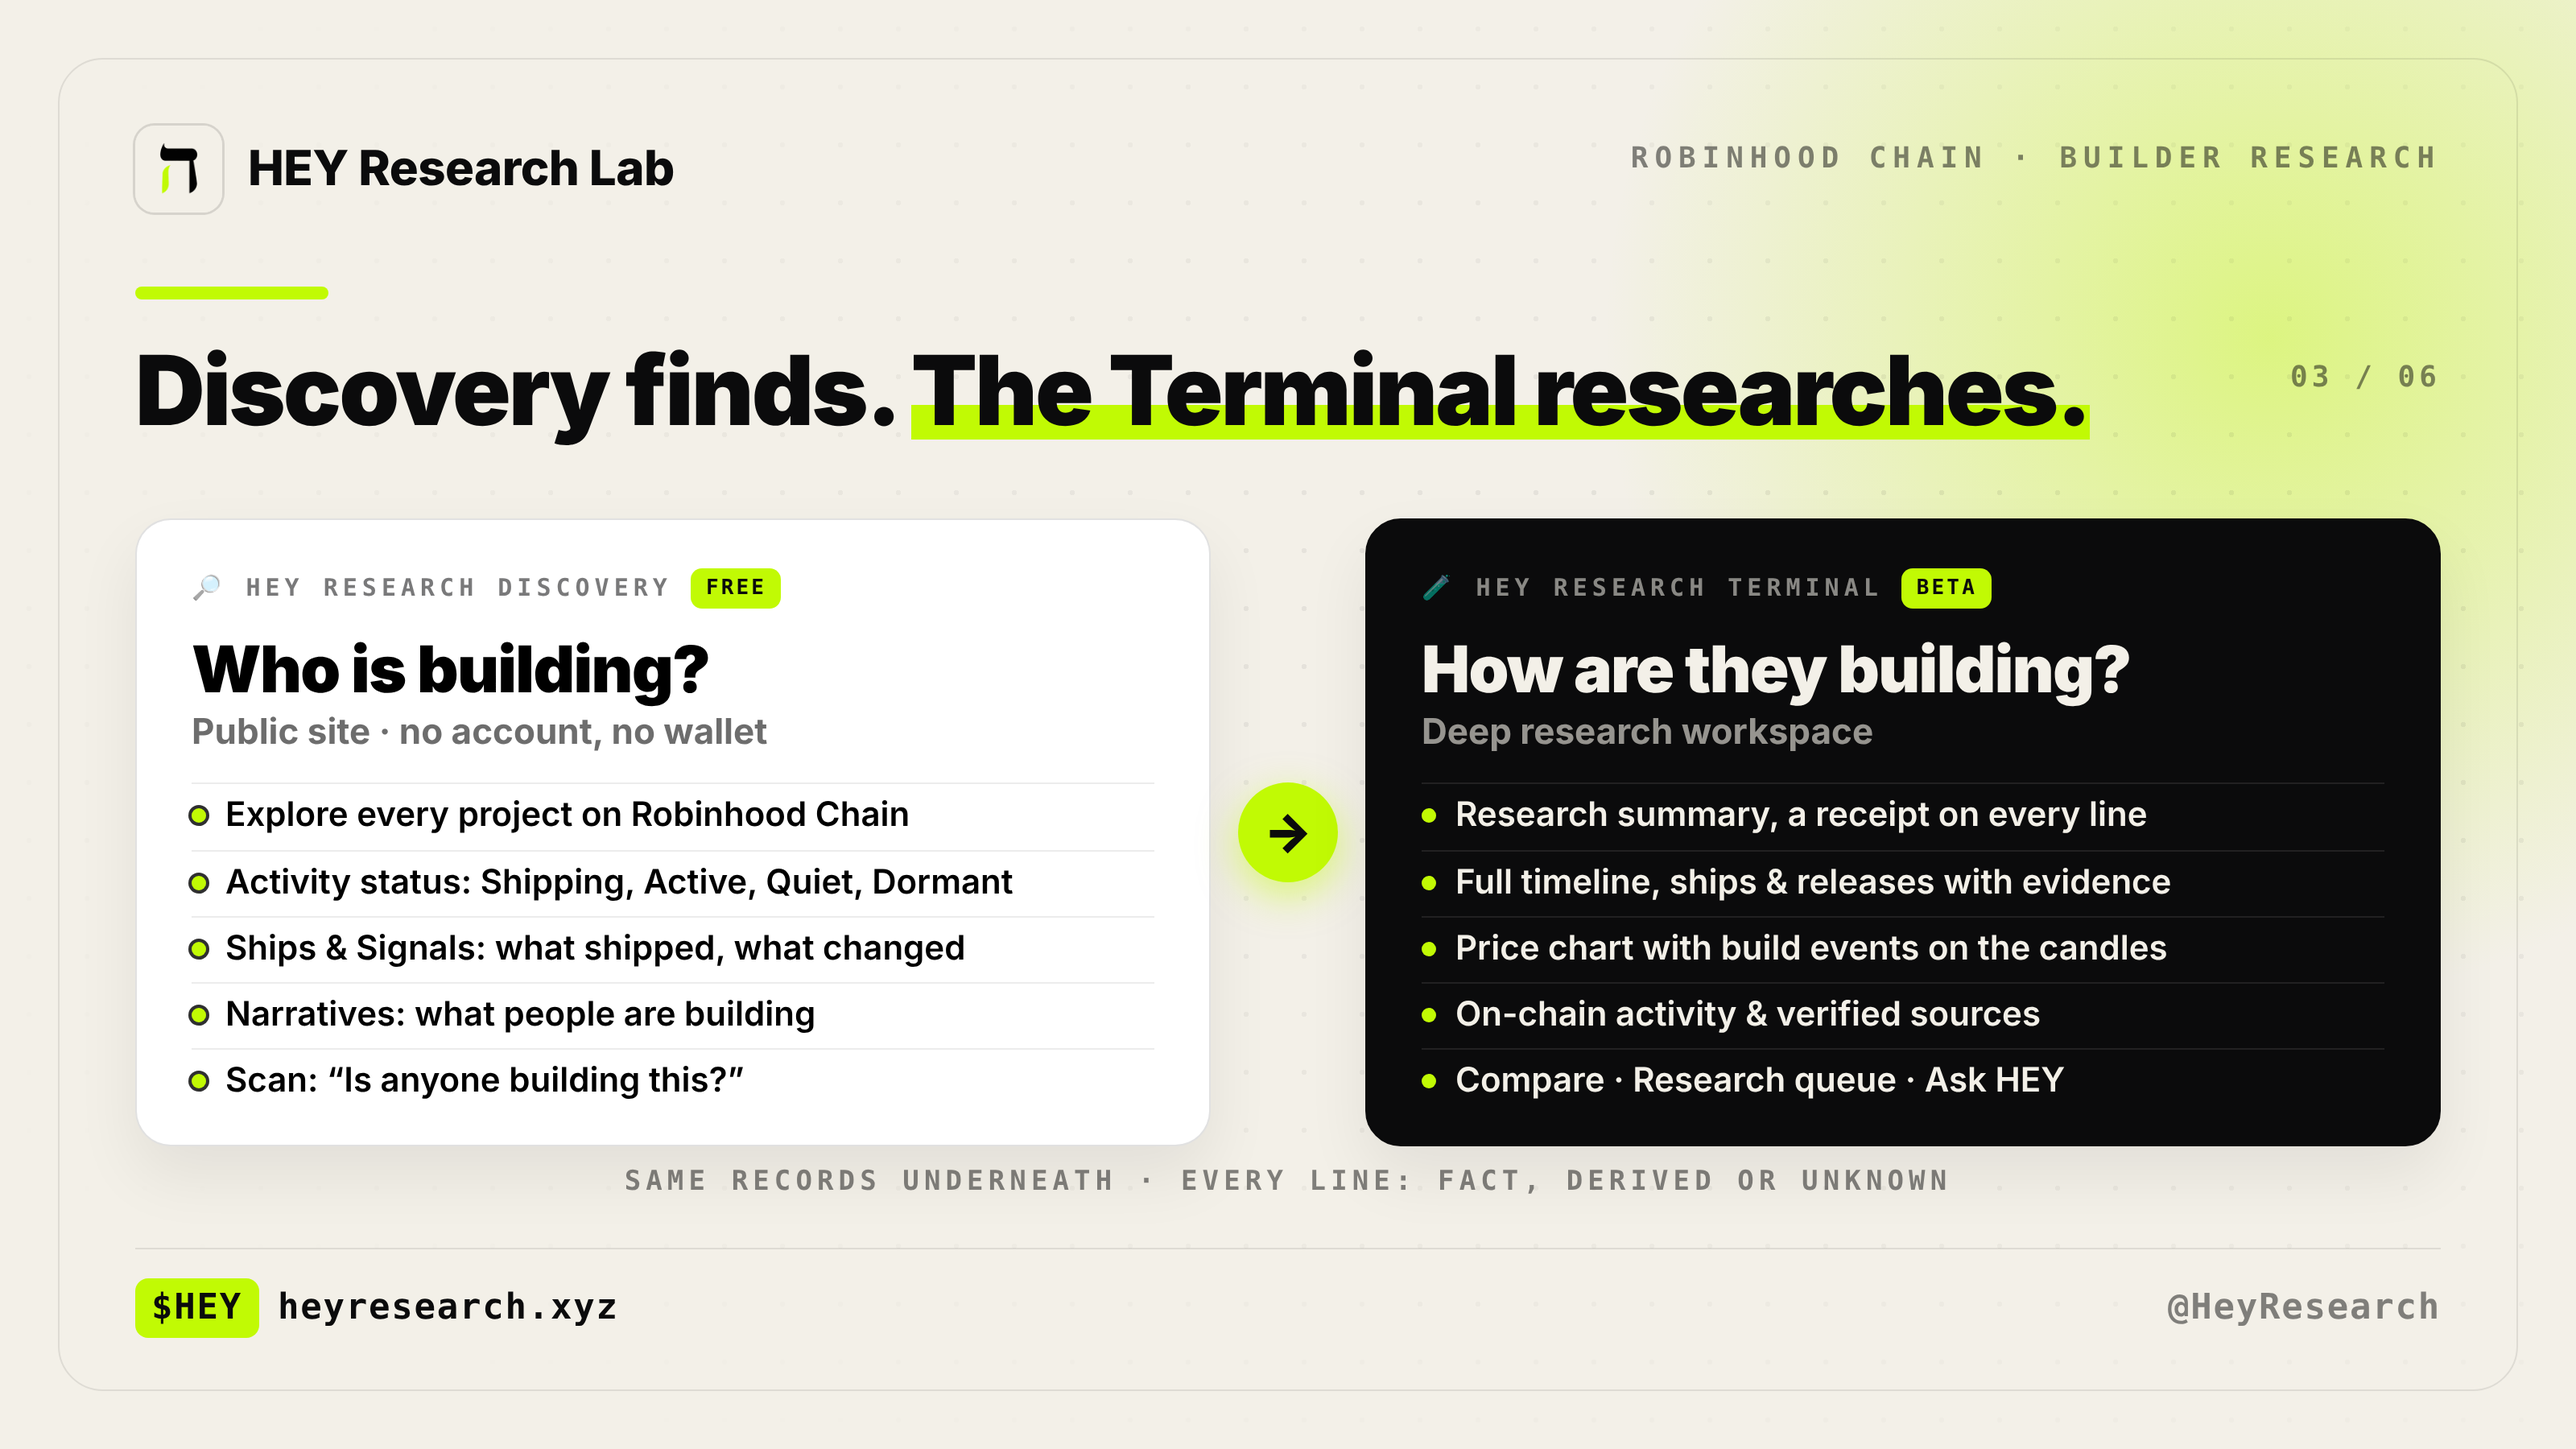
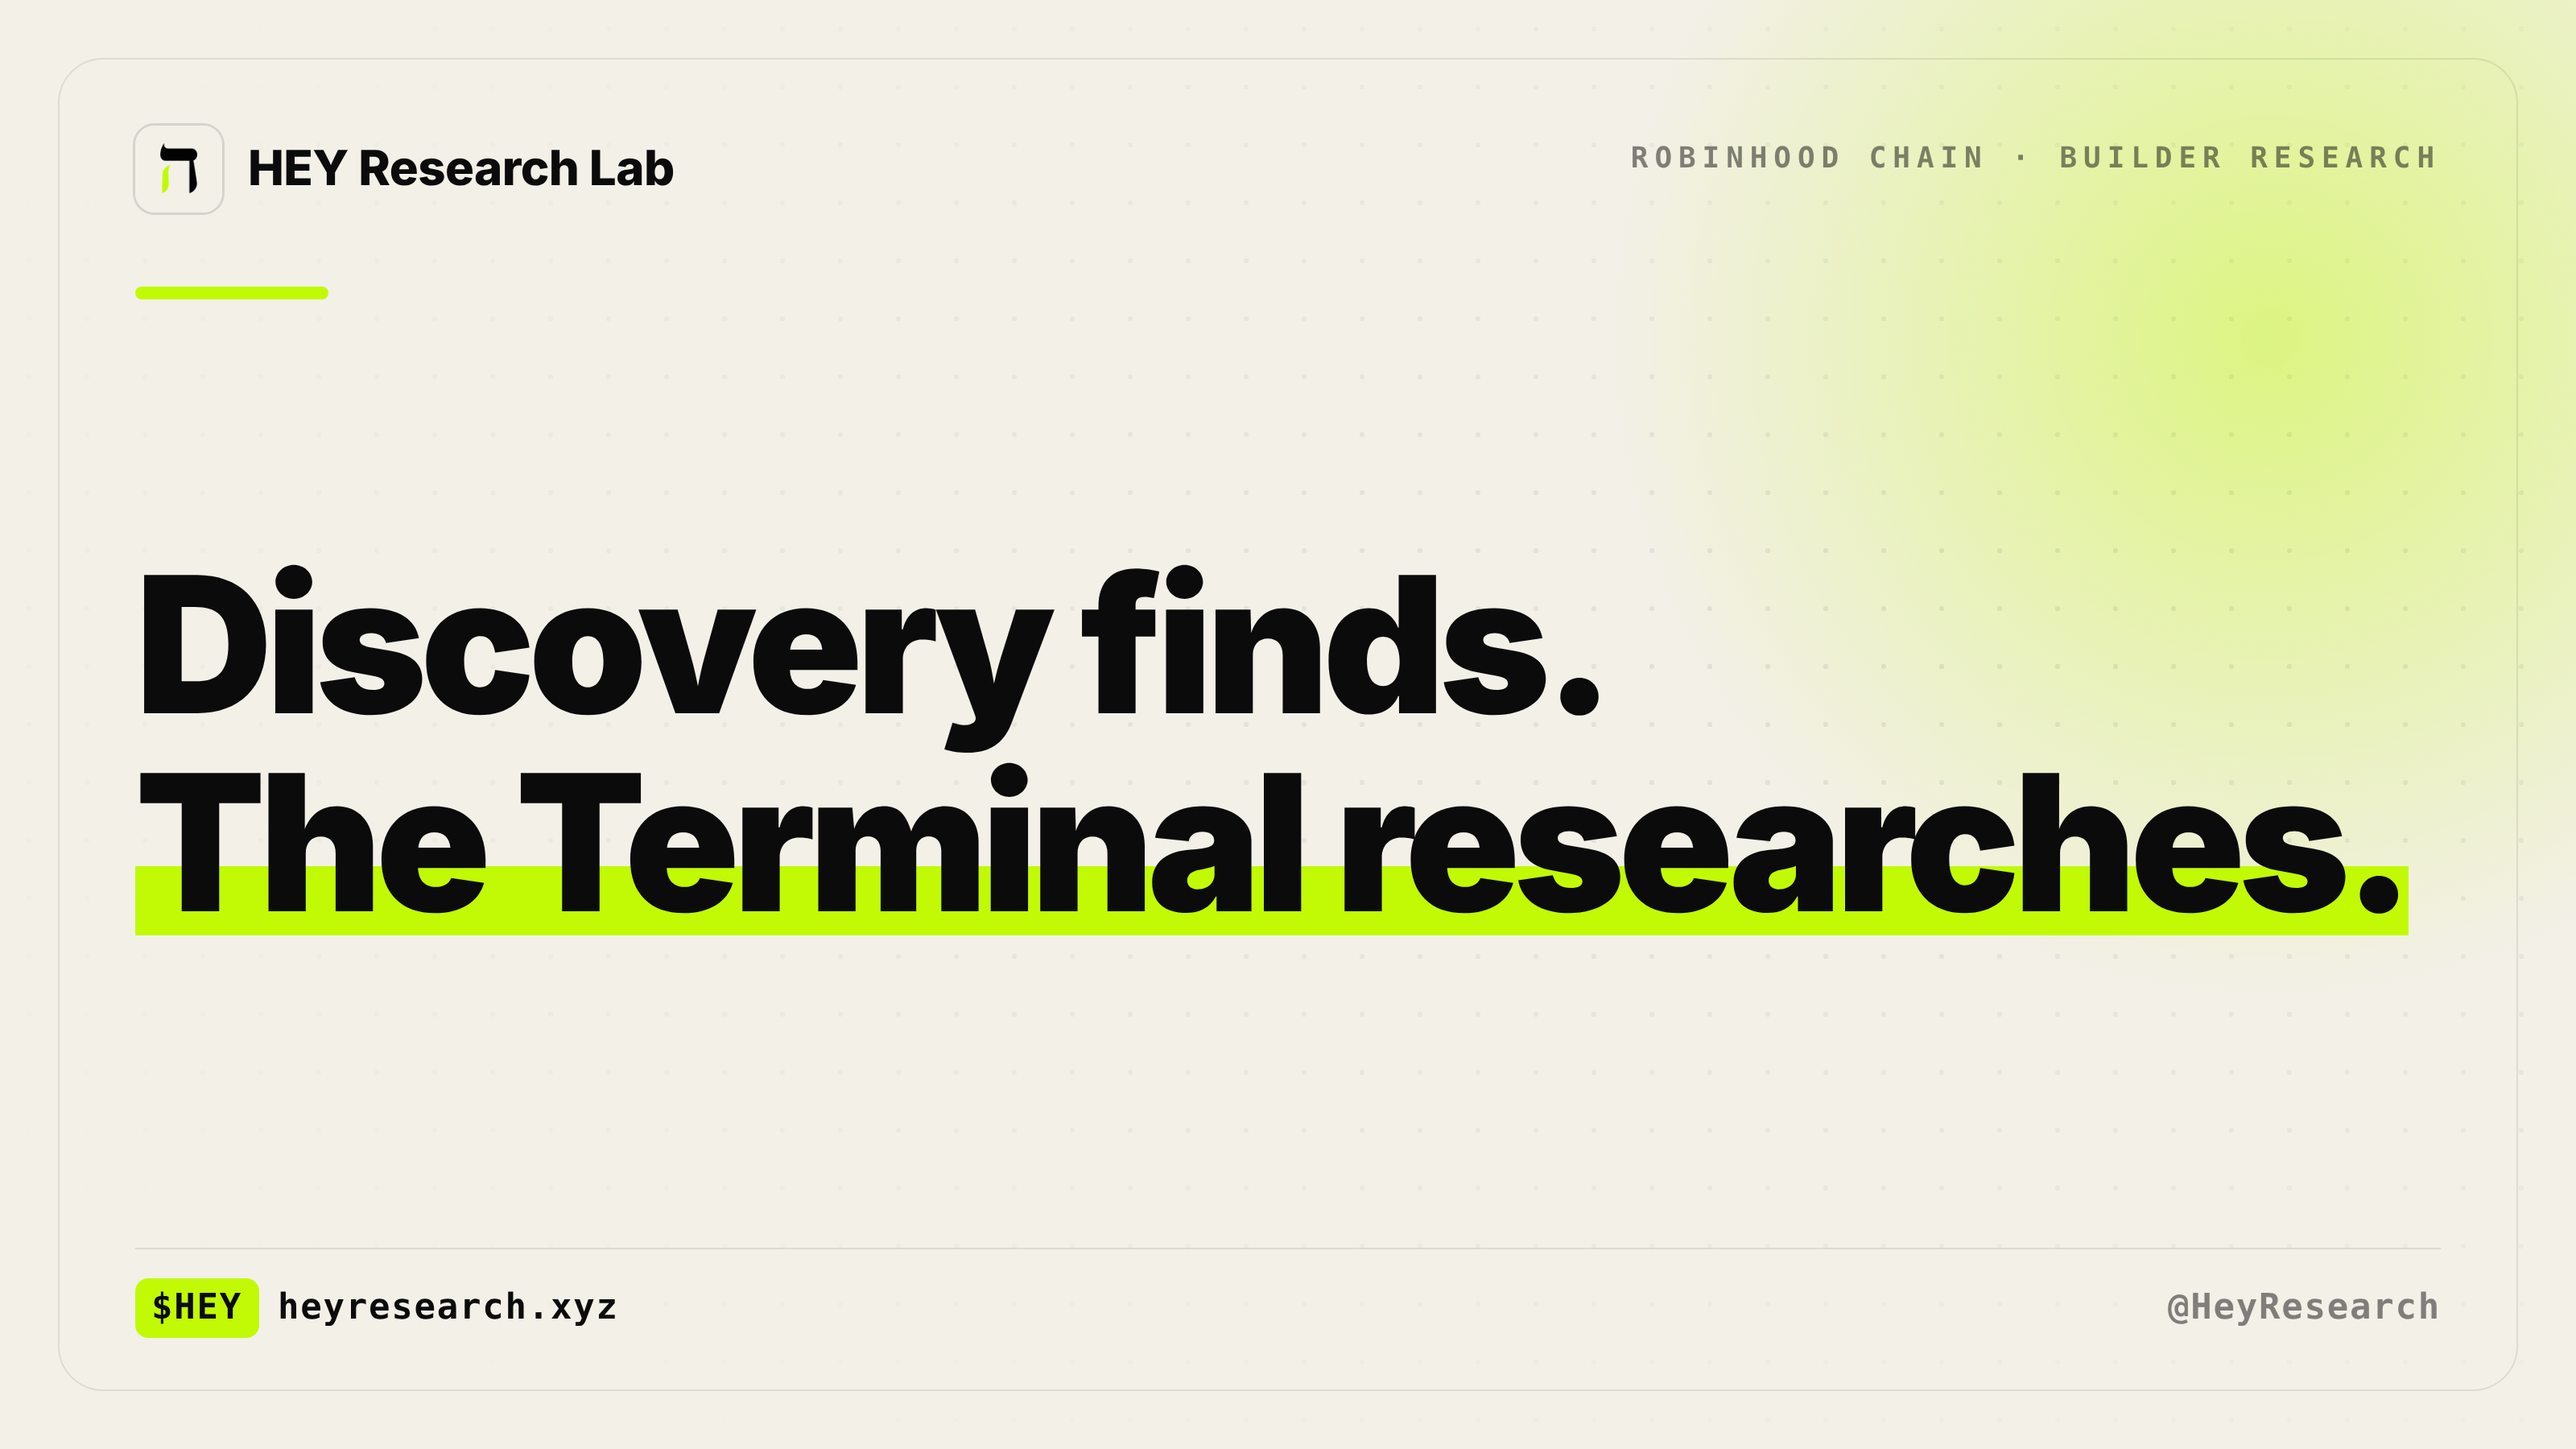
Post 3 image: title only
Claude-Session: https://claude.ai/code/session_015zbJBZP9UvfSnxbfXEhggB

diff --git a/marketing/hey-research-lab-film/thread-images/post3.html b/marketing/hey-research-lab-film/thread-images/post3.html
@@ -19,44 +19,14 @@ body.light #head img{box-shadow:0 0 0 1.5px rgba(11,11,12,.12)}
 #foot .r{color:var(--mute);font-weight:600}
 #rule{position:absolute;left:84px;right:84px;bottom:124px;height:1.5px;background:var(--line)}
 
-#t{position:absolute;left:84px;top:212px;color:var(--fg);font:900 60px/1.05 Inter;letter-spacing:-.025em}
-#t em{font-style:normal;background:linear-gradient(transparent 62%,var(--lime) 62%,var(--lime) 92%,transparent 92%)}
-#cards{position:absolute;left:84px;right:84px;top:322px;height:390px;display:flex;gap:0;align-items:stretch}
-.card{flex:1;background:#fff;border:1.5px solid rgba(11,11,12,.12);border-radius:22px;padding:30px 34px;box-shadow:0 18px 40px rgba(11,11,12,.07)}
-.card.dk{background:#0b0b0c;color:#f3f0e8;border-color:#0b0b0c}
-.k{display:flex;align-items:center;gap:12px;font:700 15px/1 "DejaVu Sans Mono",monospace;letter-spacing:.2em;color:rgba(11,11,12,.55)}
-.dk .k{color:rgba(243,240,232,.55)}
-.pill{font:800 13px/1 "DejaVu Sans Mono",monospace;letter-spacing:.12em;background:var(--lime);color:#0b0b0c;padding:6px 9px;border-radius:7px}
-.h{font:900 40px/1.1 Inter;margin:16px 0 4px;letter-spacing:-.02em}
-.q{font:700 22px/1.2 Inter;color:rgba(11,11,12,.6);margin-bottom:18px}
-.dk .q{color:rgba(243,240,232,.6)}
-.q b{color:#0b0b0c;background:var(--lime);padding:0 6px;border-radius:5px}
-ul{list-style:none;margin:0;padding:0;font:600 21px/1.25 Inter}
-li{display:flex;gap:12px;align-items:baseline;padding:7px 0;border-top:1px solid rgba(11,11,12,.08)}
-.dk li{border-top-color:rgba(243,240,232,.1)}
-li:before{content:"";flex:0 0 9px;height:9px;border-radius:50%;background:var(--lime);transform:translateY(-2px);box-shadow:0 0 0 2px rgba(11,11,12,.85)}
-.dk li:before{box-shadow:none}
-#arrow{flex:0 0 96px;display:flex;align-items:center;justify-content:center}
-#arrow div{width:62px;height:62px;border-radius:50%;background:var(--lime);display:flex;align-items:center;justify-content:center;font:900 32px/1 Inter;color:#0b0b0c;box-shadow:0 8px 24px rgba(193,250,4,.5)}
-#same{position:absolute;left:84px;right:84px;top:726px;text-align:center;font:700 17px/1 "DejaVu Sans Mono",monospace;letter-spacing:.18em;color:var(--mute)}
-#num{position:absolute;right:84px;top:226px;font:800 18px/1 "DejaVu Sans Mono",monospace;letter-spacing:.14em;color:var(--mute)}
+#t{position:absolute;left:84px;right:84px;top:340px;color:var(--fg);font:900 118px/1.04 Inter;letter-spacing:-.035em}
+#t em{font-style:normal;background:linear-gradient(transparent 60%,var(--lime) 60%,var(--lime) 90%,transparent 90%)}
 </style></head><body class="light"><div id="c">
 <div id="glow"></div><div id="dots"></div><div id="frame"></div>
 <div id="head"><img src="hey_icon.png">HEY Research Lab</div>
 <div id="tag">ROBINHOOD CHAIN · BUILDER RESEARCH</div>
 <div id="bar"></div>
-<div id="t">Discovery finds. <em>The Terminal researches.</em></div>
-<div id="num">03 / 06</div>
-<div id="cards">
- <div class="card"><div class="k">🔎 HEY RESEARCH DISCOVERY <span class="pill">FREE</span></div>
-  <div class="h">Who is building?</div><div class="q">Public site · no account, no wallet</div>
-  <ul><li>Explore every project on Robinhood Chain</li><li>Activity status: Shipping, Active, Quiet, Dormant</li><li>Ships &amp; Signals: what shipped, what changed</li><li>Narratives: what people are building</li><li>Scan: “Is anyone building this?”</li></ul></div>
- <div id="arrow"><div>→</div></div>
- <div class="card dk"><div class="k">🧪 HEY RESEARCH TERMINAL <span class="pill">BETA</span></div>
-  <div class="h">How are they building?</div><div class="q">Deep research workspace</div>
-  <ul><li>Research summary, a receipt on every line</li><li>Full timeline, ships &amp; releases with evidence</li><li>Price chart with build events on the candles</li><li>On-chain activity &amp; verified sources</li><li>Compare · Research queue · Ask HEY</li></ul></div>
-</div>
-<div id="same">SAME RECORDS UNDERNEATH · EVERY LINE: FACT, DERIVED OR UNKNOWN</div>
+<div id="t">Discovery finds.<br><em>The Terminal researches.</em></div>
 <div id="rule"></div>
 <div id="foot"><div class="l"><b>$HEY</b>heyresearch.xyz</div><div class="r">@HeyResearch</div></div>
 </div></body></html>
